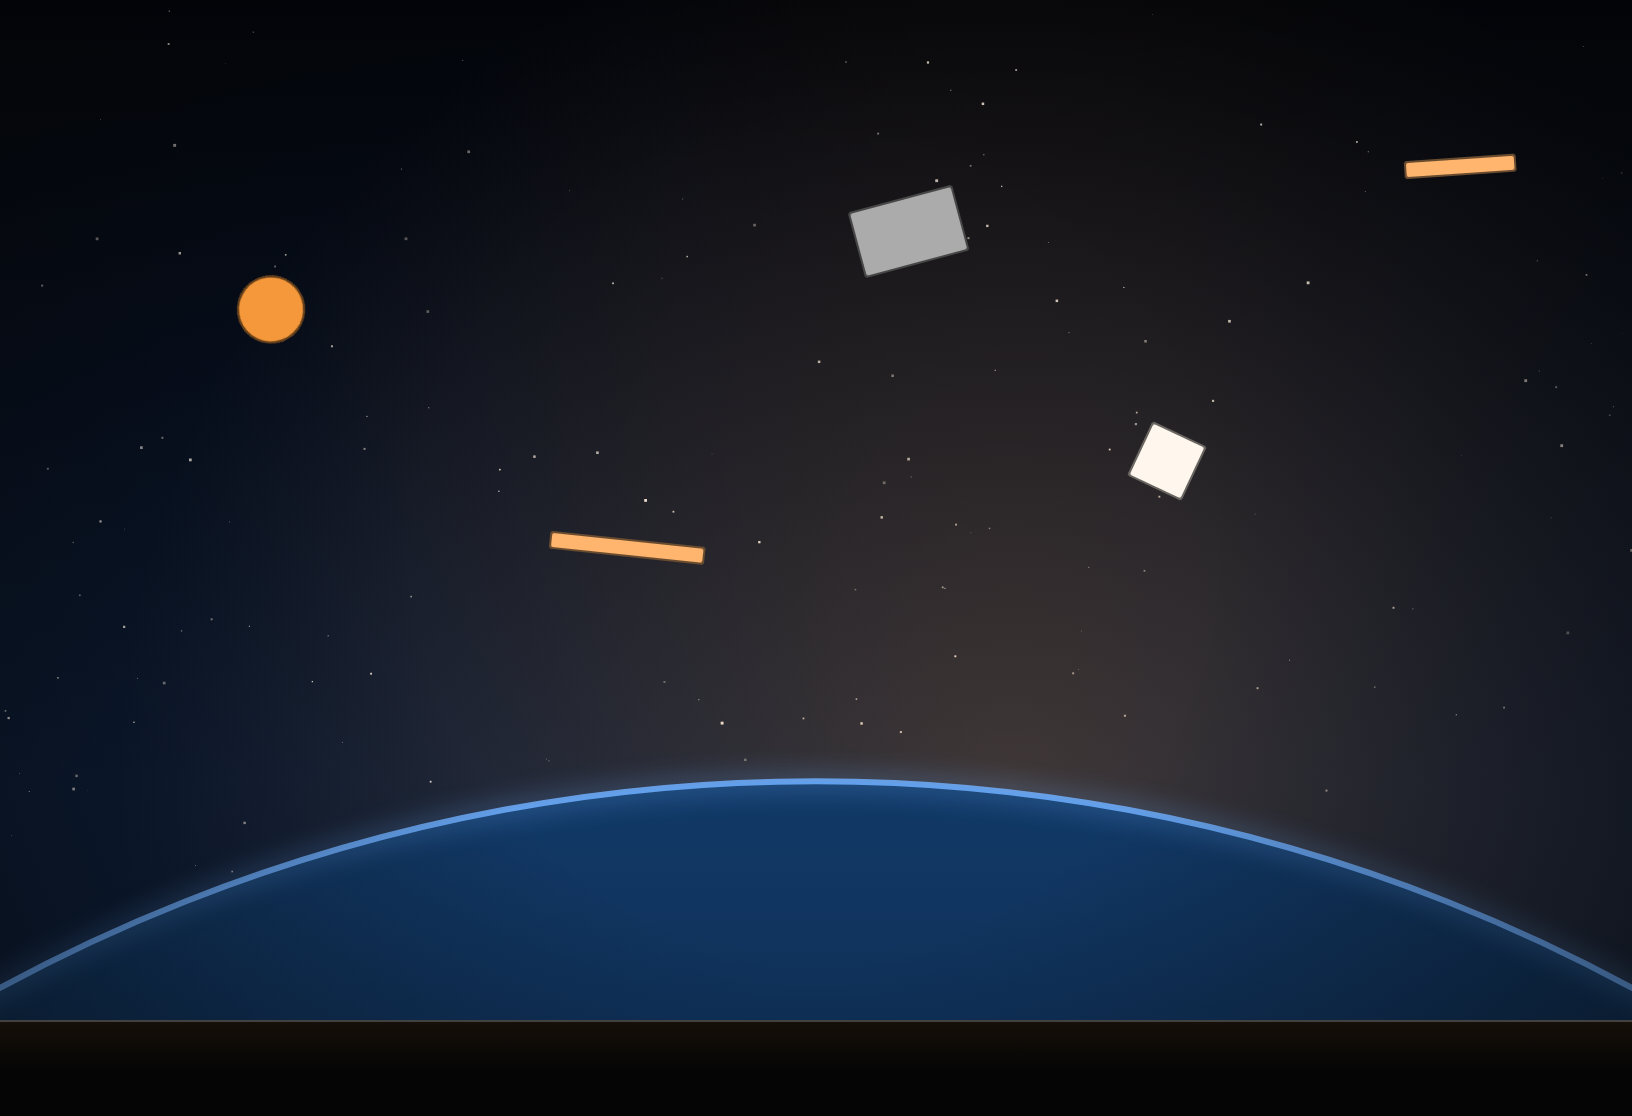
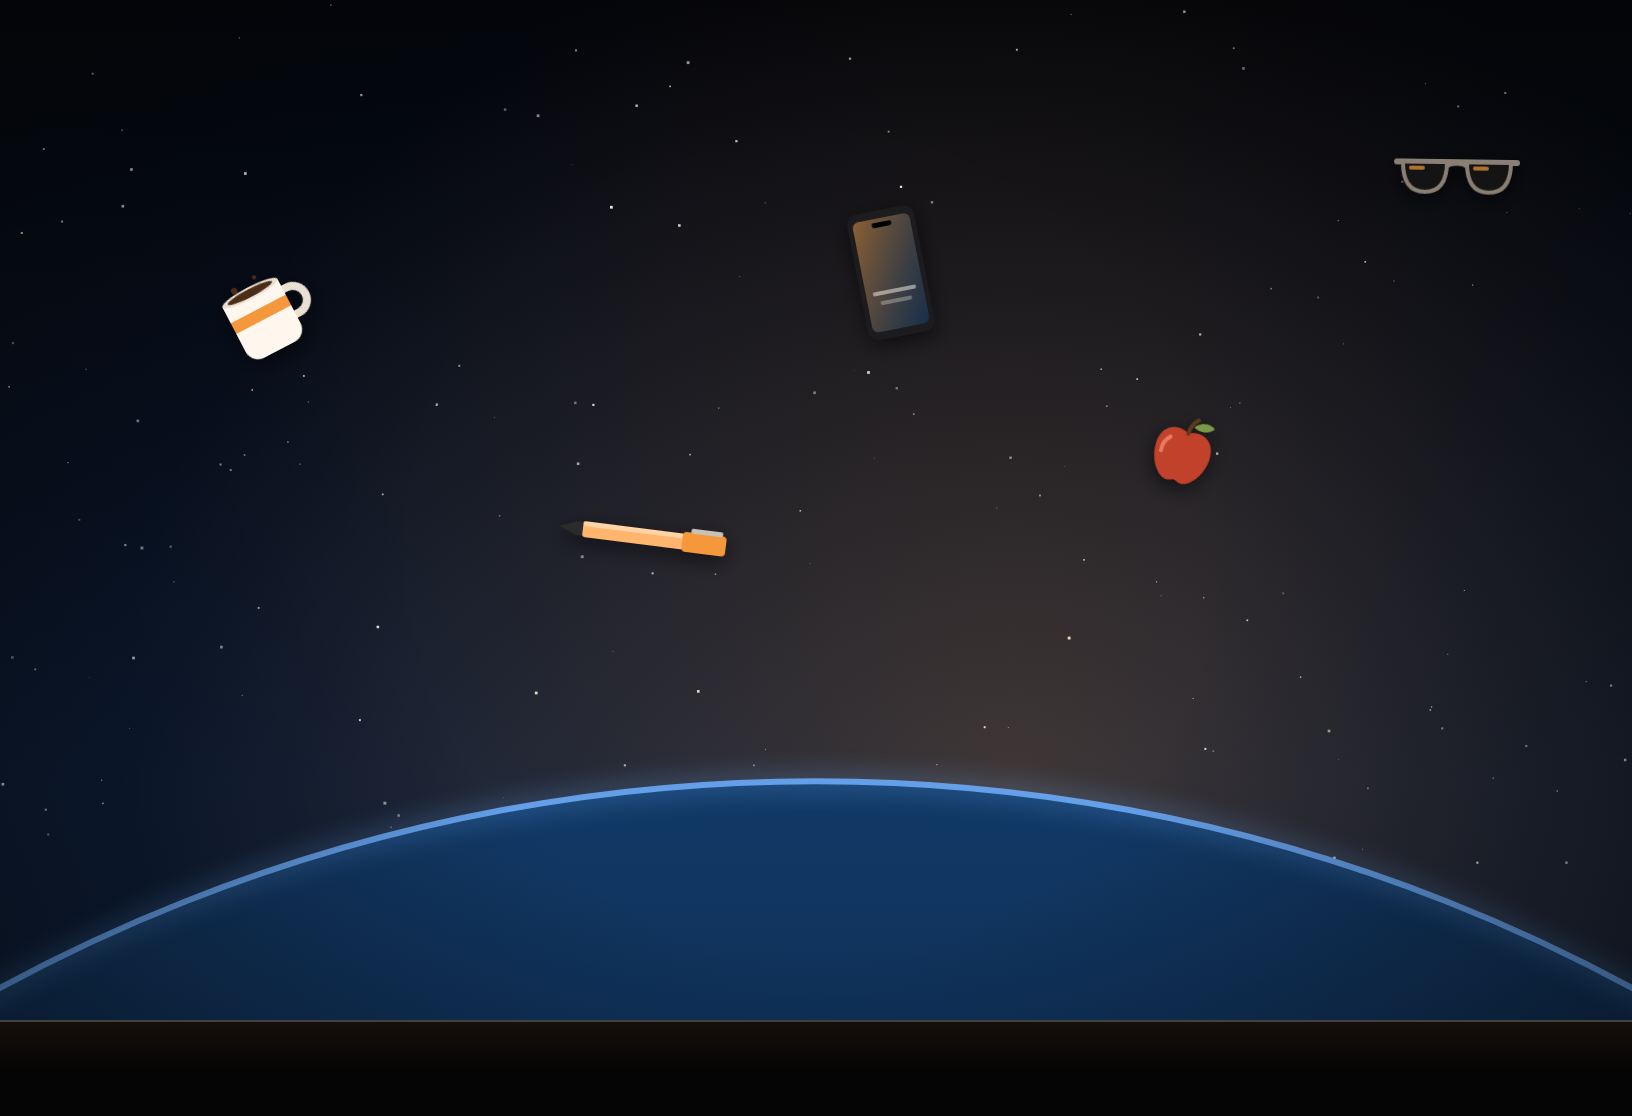
feat: added cosas flying

diff --git a/prototypes/orbit-flight/index.html b/prototypes/orbit-flight/index.html
@@ -51,10 +51,7 @@
   .floor::after { content: ''; position: absolute; left: 0; right: 0; top: 0; height: 24px; background: linear-gradient(to bottom, rgba(245,152,59,.07), transparent); }
   .obj { position: absolute; left: 0; top: 0; cursor: grab; will-change: transform; touch-action: none; }
   .obj.grabbed { cursor: grabbing; }
-  .obj i { display: block; width: 100%; height: 100%; background: var(--orbit-color-text-primary); border-radius: var(--orbit-radius-2); box-shadow: 0 0 0 1px rgba(5,5,5,.6) inset; }
-  .obj.ball i { border-radius: 50%; background: var(--orbit-color-accent); }
-  .obj.pen i { background: var(--orbit-color-accent-soft); }
-  .obj.card i { background: var(--orbit-color-text-secondary); }
+  .obj svg { display: block; width: 100%; height: 100%; overflow: visible; filter: drop-shadow(0 3px 5px rgba(0,0,0,.55)); }
   .scene-top { position: absolute; left: 20px; right: 20px; top: 16px; display: flex; justify-content: space-between; align-items: center; pointer-events: none; }
   .scene-top .btn { pointer-events: auto; }
   .hint { position: absolute; left: 0; right: 0; top: 64px; text-align: center; pointer-events: none; opacity: 0; transition: opacity .6s; }
@@ -419,17 +416,30 @@
 
   /* ---------- Floating objects ---------- */
   const objsEl = $('objs');
+  // Everyday things that float loose in the cabin. Each svg is drawn in a w × h box.
   const DEFS = [
-    { cls: 'ball', w: 34, h: 34 },
-    { cls: 'pen',  w: 78, h: 9 },
-    { cls: 'card', w: 54, h: 34 },
-    { cls: '',     w: 30, h: 30 },
-    { cls: 'pen',  w: 56, h: 9 },
+    { name: 'mug', w: 44, h: 40, svg: `<path d="M33 12h3a7 7 0 0 1 0 14h-3" fill="none" stroke="#E9DFD2" stroke-width="4"/>
+      <path d="M3 6h31v25a7 7 0 0 1-7 7H10a7 7 0 0 1-7-7z" fill="#FFF7ED"/><path d="M3 15h31v6H3z" fill="#F5983B"/>
+      <ellipse cx="18.5" cy="6" rx="15.5" ry="3" fill="#E9DFD2"/><ellipse cx="18.5" cy="6" rx="12.5" ry="2" fill="#4A2C17"/>
+      <circle cx="12" cy="1.5" r="1.6" fill="#4A2C17"/><circle cx="24" cy="0" r="1.1" fill="#4A2C17"/>` },
+    { name: 'pen', w: 84, h: 10, svg: `<path d="M0 5l9-3.5h3v7H9z" fill="#2B2B2B"/><rect x="12" y="1" width="54" height="8" rx="1.5" fill="#FFB56E"/>
+      <rect x="12" y="1" width="54" height="2.5" rx="1" fill="#FFD3A3"/><rect x="62" y="0" width="22" height="10" rx="2" fill="#F5983B"/>
+      <rect x="66" y="-2" width="16" height="2.5" rx="1" fill="#C9C1B6"/>` },
+    { name: 'phone', w: 34, h: 64, svg: `<rect x="0" y="0" width="34" height="64" rx="5" fill="#1C1C1E"/><rect x="2.5" y="4" width="29" height="56" rx="3" fill="#0D1B2A"/>
+      <rect x="2.5" y="4" width="29" height="56" rx="3" fill="url(#phoneGlow)"/><rect x="12" y="6" width="10" height="2.5" rx="1.2" fill="#000"/>
+      <rect x="6" y="40" width="22" height="2" rx="1" fill="#FFF7ED" opacity=".5"/><rect x="9" y="45" width="16" height="2" rx="1" fill="#FFF7ED" opacity=".3"/>
+      <defs><linearGradient id="phoneGlow" x1="0" y1="0" x2="1" y2="1"><stop offset="0" stop-color="#F5983B" stop-opacity=".55"/><stop offset="1" stop-color="#2A4D7A" stop-opacity=".4"/></linearGradient></defs>` },
+    { name: 'apple', w: 32, h: 34, svg: `<path d="M16 9c-4-3-14-2-14 9 0 9 6 16 10 16 2 0 3-1 4-1s2 1 4 1c4 0 10-7 10-16 0-11-10-12-14-9z" fill="#C2412B"/>
+      <path d="M8 13c-2 2-3 5-2.5 8" stroke="#E87A5F" stroke-width="2" fill="none" stroke-linecap="round"/>
+      <path d="M16 9c0-3 1-6 3-8" stroke="#5B3A1E" stroke-width="2" fill="none" stroke-linecap="round"/><path d="M18 5c3-4 8-4 10-2-2 3-7 4-10 2z" fill="#7A9A4A"/>` },
+    { name: 'sunglasses', w: 62, h: 22, svg: `<path d="M1 4h60" stroke="#8A7F74" stroke-width="3" stroke-linecap="round"/>
+      <path d="M4 4h22c0 9-3 15-11 15S4 13 4 4z" fill="#141414" stroke="#8A7F74" stroke-width="2"/><path d="M36 4h22c0 9-3 15-11 15S36 13 36 4z" fill="#141414" stroke="#8A7F74" stroke-width="2"/>
+      <path d="M8 7l6 0M40 7l6 0" stroke="#F5983B" stroke-width="2" stroke-linecap="round" opacity=".7"/><path d="M26 6c2-2 8-2 10 0" stroke="#8A7F74" stroke-width="2.5" fill="none"/>` },
   ];
   const objs = DEFS.map((d, i) => {
     const el = document.createElement('div');
-    el.className = `obj ${d.cls}`; el.style.width = d.w + 'px'; el.style.height = d.h + 'px'; el.setAttribute('aria-hidden', 'true');
-    el.innerHTML = '<i></i>'; objsEl.appendChild(el);
+    el.className = `obj ${d.name}`; el.style.width = d.w + 'px'; el.style.height = d.h + 'px'; el.setAttribute('aria-hidden', 'true');
+    el.innerHTML = `<svg viewBox="0 0 ${d.w} ${d.h}" xmlns="http://www.w3.org/2000/svg">${d.svg}</svg>`; objsEl.appendChild(el);
     return { el, w: d.w, h: d.h, x: 0, y: 0, vx: 0, vy: 0, r: 0, vr: 0, grabbed: false, i };
   });
   let placed = false;

diff --git a/prototypes/orbit-flight/README.md b/prototypes/orbit-flight/README.md
@@ -14,7 +14,7 @@ Open `index.html` in a browser (double click, or `open index.html`). Works from 
 - Drag the line (or click a stop, or use ← → / Home / End) to move through the 10-minute flight. `Play flight` runs it in ~25 s.
 - Readout changes live: stop name, "You feel" sentence, G-force, altitude, speed, and what *you* would weigh (± stepper for your weight).
 - The window scene follows the flight: sky from dawn to black, stars, the curve of the Earth with its thin blue line, engine glow and shake under thrust, reentry glow, sway under parachutes.
-- In the weightless band the cabin objects float. Grab and throw them. Weight comes back and they fall to the floor.
+- In the weightless band the cabin objects (a mug, a pen, a phone, an apple, sunglasses) float. Grab and throw them. Weight comes back and they fall to the floor.
 - `Sound` (off by default): engine roar, silence at weightlessness, reentry rush, parachute air. Synthesized with WebAudio, no files.
 
 ## Demo flow
